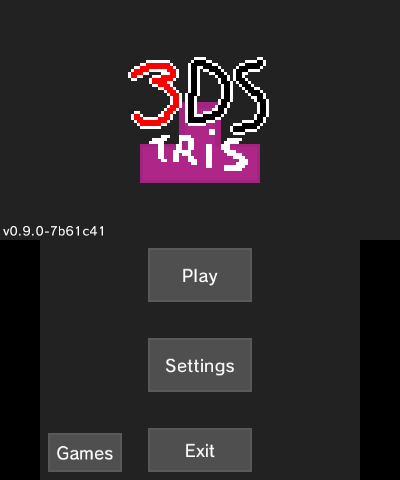
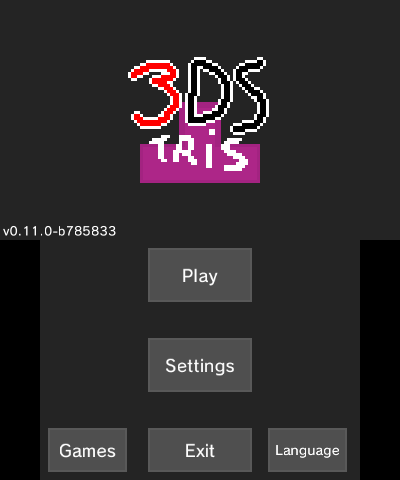
Update main menu screenshot, change some button sizes and positions

Changed region(s): [[0.66, 0.875, 0.87, 1.0], [0.12, 0.875, 0.33, 1.0], [0.06, 0.4688, 0.3, 0.5]]

diff --git a/src/states/mainmenu.cpp b/src/states/mainmenu.cpp
@@ -25,11 +25,11 @@ MainMenu::MainMenu()
 								 game.translate("exit"),
 								 Button::Flags::HCENTER)),
 
-	  gamesButton(gui.add<Button>(Pos{10, BSCREEN_HEIGHT - 45}, WH{70, 35},
+	  gamesButton(gui.add<Button>(Pos{10, BSCREEN_HEIGHT - 40 - 10}, WH{75, 40},
 								  game.translate("mainmenu.games"))),
-	  languagesButton(
-		  gui.add<Button>(Pos{BSCREEN_WIDTH - 85, BSCREEN_HEIGHT - 45},
-						  WH{75, 35}, game.translate("mainmenu.languages"))) {
+	  languagesButton(gui.add<Button>(
+		  Pos{BSCREEN_WIDTH - 80 - 10, BSCREEN_HEIGHT - 40 - 10}, WH{75, 40},
+		  game.translate("mainmenu.languages"))) {
 	versionText.setScale({0.5f, 0.5f});
 	versionText.setPos({3, SCREEN_HEIGHT - versionText.getWH().y / 1.25f - 5});
 }

diff --git a/src/states/languages.cpp b/src/states/languages.cpp
@@ -7,10 +7,10 @@ LanguageSelect::LanguageSelect()
 	: State(),
 	  selectText(game.translate("languageselect.select")),
 
-	  saveButton(gui.add<Button>(Pos{10, BSCREEN_HEIGHT - 45}, WH{80, 35},
+	  saveButton(gui.add<Button>(Pos{10, BSCREEN_HEIGHT - 50}, WH{75, 40},
 								 game.translate("save"))),
-	  cancelButton(gui.add<Button>(Pos{BSCREEN_WIDTH - 90, BSCREEN_HEIGHT - 45},
-								   WH{80, 35}, game.translate("cancel"))) {
+	  cancelButton(gui.add<Button>(Pos{BSCREEN_WIDTH - 90, BSCREEN_HEIGHT - 50},
+								   WH{80, 40}, game.translate("cancel"))) {
 	selectText.align(Text::Align::SCREEN_CENTER);
 
 	// TODO: this piece of shit will eventually break (buttons will go off the
